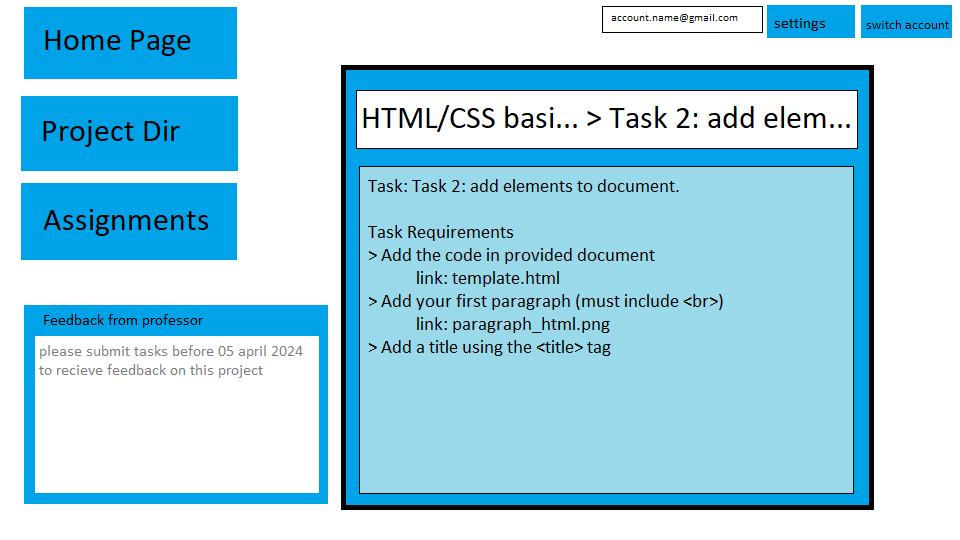
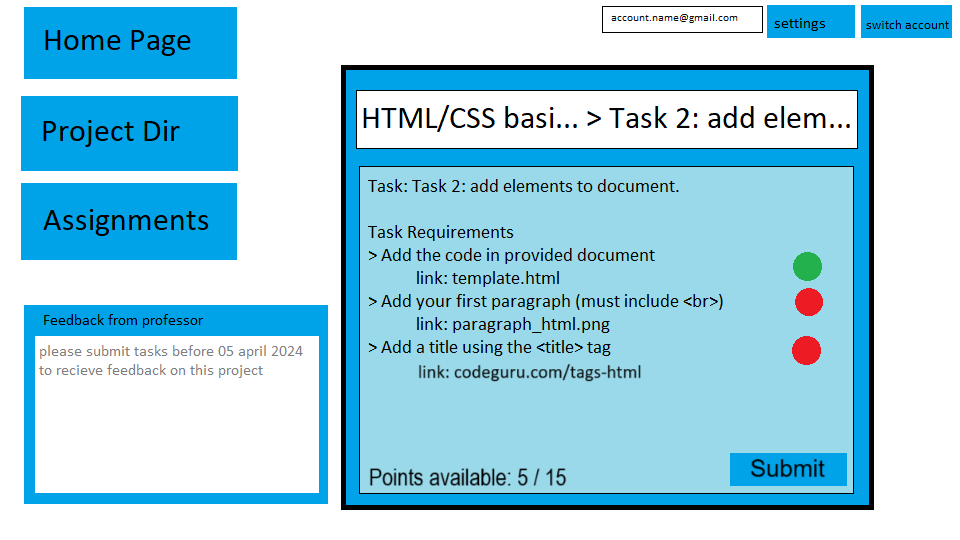
"figma prototype and user testing"

diff --git a/usability.html b/usability.html
@@ -1,0 +1,39 @@
+<html>
+  <link rel="stylesheet" type="text/css" href="./wireframes_figma_styles.css" />
+  <head>
+    <title>Figma Prototype</title>
+  </head>
+  
+  <body>
+    <h1><a href="./index.html">back to home</a></h1>
+    <h2>Participant: Kacie Franklin</h2>
+    <h2>Task: try using it and imagine you're trying to submit your work for HTML basics, task 2</h2>
+    <h2>Task completed, issue: tried to click on the submit button at the end (this was before the task complete screen was added).</h2>
+    <h2>Notes: "[I] got a little confused because the submit button doesn’t work, if I can suggest having [it] maybe link back to the homepage to indicate it was pressed, it would make it a little clearer. Other than that it was very straightforward and I like the simple aesthetic it’s very clean and easy to read, you did really good."</h2>
+    <h2>[Task Complete(d) Page Added]</h2>
+    <img src="graphic_design.png">
+
+    <h2>Participant: Sophia Stanley</h2>
+    <h2>Task: bet you can't submit work for HTML Basics Task 2</h2>
+    <h2>Task completed without issues</h2>
+    <h2>Notes: "I love html!!!!" "I think it was good and well put together, it's very hard to read the text on the Task Completed page and I do not understand why the d is in a different colour to the rest of the text but otherwise it is good" </h2>
+    <h2>[Made Clearer That d Is Link To Home]</h2>
+    <img src="my_passion.png">
+
+    <h2>Participant: Stephen Arthur</h2>
+    <h2>Task: try to submit work for HTML Basics, task 2</h2>
+    <h2>Task completed, tried to click on checkmarks and assignments tab, but quickly learned that projects and tasks were clickable.</h2>
+    <h2>Notes: "got a little lost, there's a lot on screen at once and the buttons aren't the clearest" "it was pretty hard to figure out what to click but other than that it works well, the rest of the UI is nice"</h2>
+    <h2>About the ending screen: "amazing, I love that pressing D brought me back"</h2>
+    <h2>[No changes for next participant]<br><br></h2>
+
+    <h2>Participant: Robert McGregor</h2>
+    <h2>Task: try to submit work for HTML Basics, task 2</h2>
+    <h2>Task completed with many issues, tried to click on assignments, Protect Dir, and new to you, eventually finding "HTML/CSS Basics..." project, clicking back out of it and back into it, then found task 2 easily, attempted to click on green and red circles (completion markers) "to try to enable things" and the side box for professor notes, eventually found submit button.</h2>
+    <h2>Addendum: Assignments tab and completion markers would lead to different paths that eventually lead to task submission, but were not the intended method to follow for this prompt.</h2>
+    <h2>Notes: "UI initially seems overwhelming, don't know where to look."</h2>
+    <h2>Rob then went back through prototype to follow path correctly, presumably attempting to understand it the path.</h2>
+    <h2>[User testing completed with tentative success, all participants completed task, though some struggled to find correct path.]</h2>
+
+  </body>
+</html>

diff --git a/figma.html b/figma.html
@@ -1,0 +1,22 @@
+<html>
+  <link rel="stylesheet" type="text/css" href="./wireframes_figma_styles.css" />
+  <head>
+    <title>Figma Prototype</title>
+  </head>
+  
+  <body>
+    <h1><a href="./index.html">back to home</a></h1>
+
+    <h2>I used the same exact images for my figma prototype as I had in my wireframes.</h2>
+    <img src="landing_page.png">
+    <img src="Key_screen.png">
+    <img src="task_screen.png">
+
+    <h2>I also added a final screen to indicate when the task was complete.</h2>
+    <img src="graphic_design.png">
+    <h2>The prompt was "try to submit work for HTML Basics, task 2"</h2>
+    <h2><a href="https://www.figma.com/file/VRXORIOS0e9u7KxpUavYSI/Project-Pages?type=design&node-id=1%3A9&mode=design&t=R5uBGt2ZwDdVL18K-1">figma prototype design</a></h2>
+    <h2><a href="https://www.figma.com/proto/VRXORIOS0e9u7KxpUavYSI/Project-Pages?type=design&node-id=1-19&t=c80zj5iUWJfbl69l-1&scaling=min-zoom&page-id=1%3A9&starting-point-node-id=1%3A19&mode=design">prototype link</a></h2>
+
+  </body>
+</html>

diff --git a/wireframes.html b/wireframes.html
@@ -1,5 +1,5 @@
 <html>
-  <link rel="stylesheet" type="text/css" href="./wireframes_styles.css" />
+  <link rel="stylesheet" type="text/css" href="./wireframes_figma_styles.css" />
   <head>
     <title>Wireframes</title>
   </head>
@@ -19,5 +19,10 @@
 
     <h2>End Screen(Task Details)</h2>
     <img src="task_screen.png", alt="information on task completion">
+
+    <h2>Alternate designs for key screens</h2>
+    <img src="crazy_threes.png", alt="two alternate designs for key screen">
+
+    <h2>Reviewed by Robert McGregor and Kacie Franklin</h2>
   </body>
 </html>

diff --git a/index.html b/index.html
@@ -26,10 +26,10 @@
         <td><a href="./wireframes.html">Wireframes</a></td>
       </tr>
       <tr>
-        <td>Prototype</td>
+        <td><a href="./figma.html">Prototype</a></td>
       </tr>
       <tr>
-        <td>Usability Testing</td>
+        <td><a href="./usability.html">Usability Testing</a></td>
       </tr>
     </table>
   </body>

diff --git a/wireframes_figma_styles.css b/wireframes_figma_styles.css
@@ -1,4 +1,3 @@
-
 h1 {
     color: blue;
     font-family: cursive;
